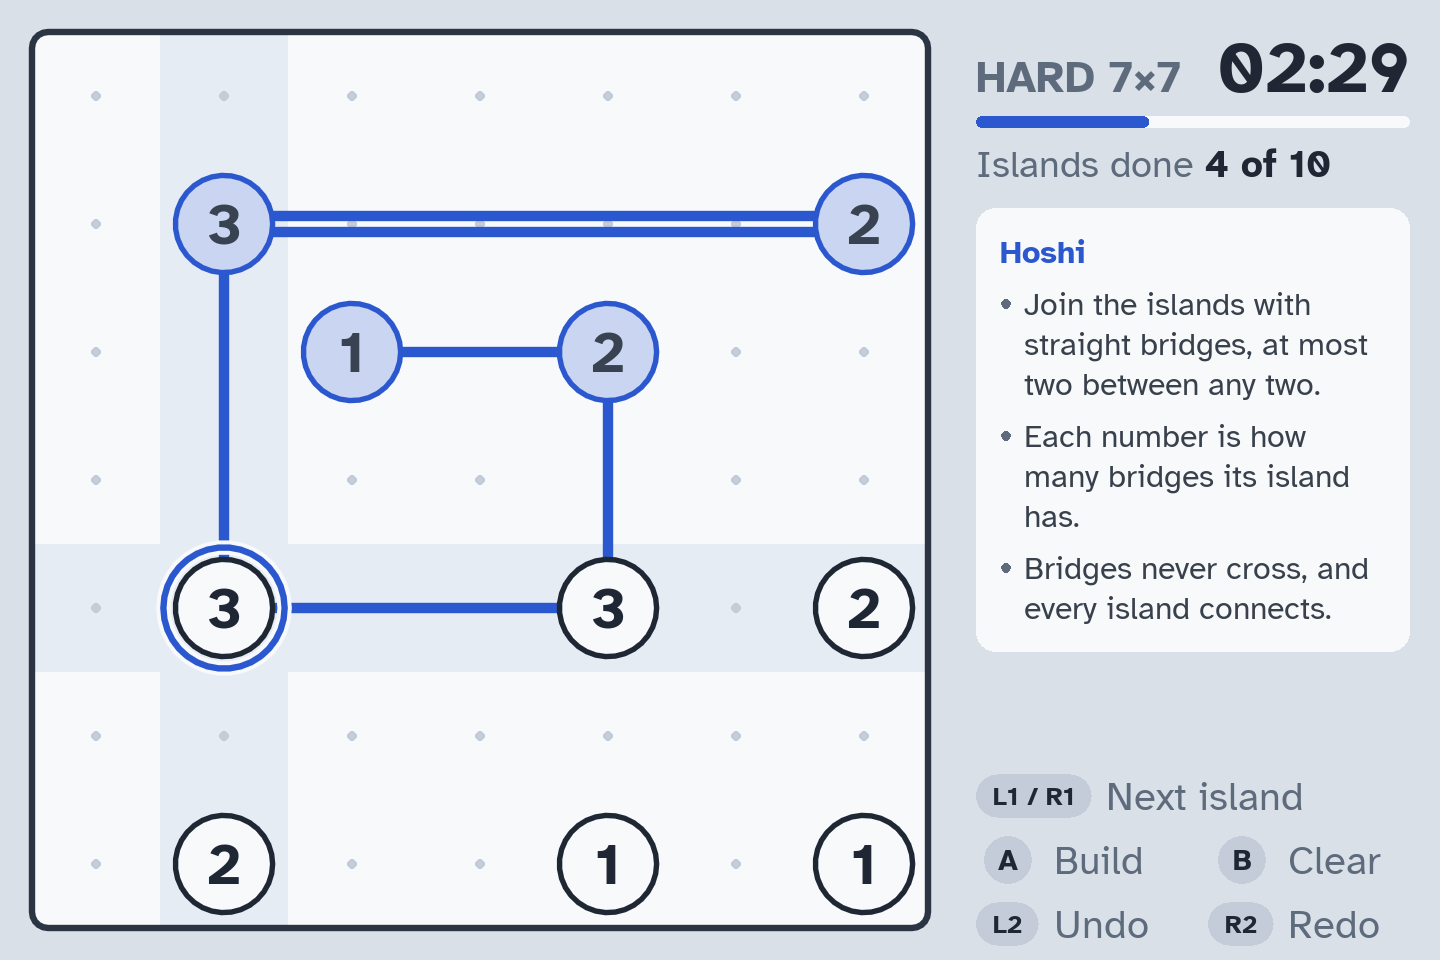
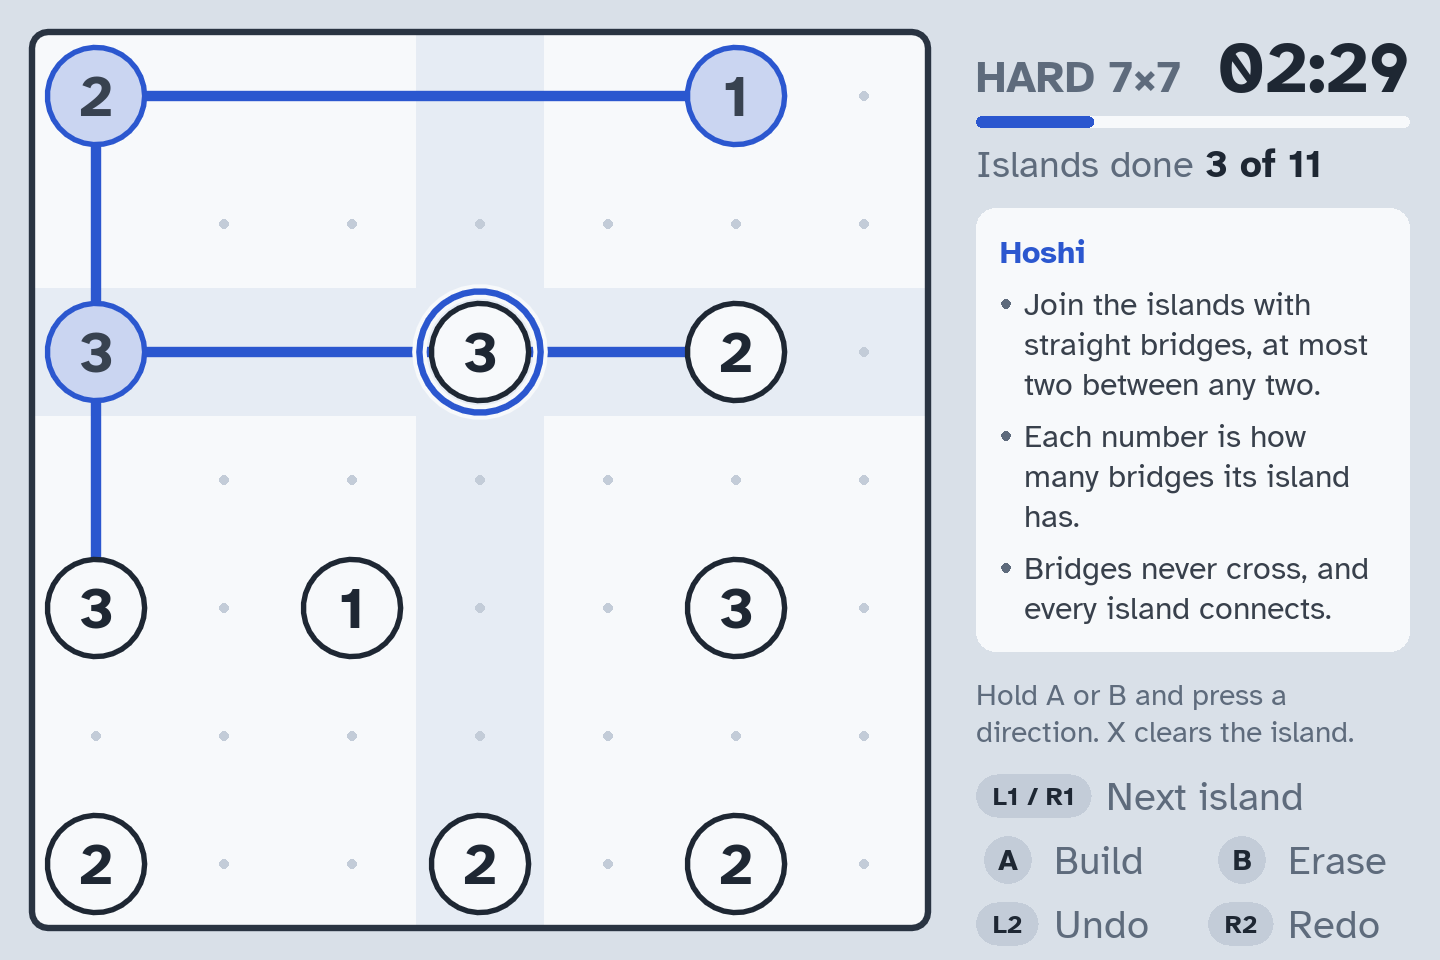
Build Hoshi bridges with A or B held and a direction
Drawing bridges like Pairlink's lines felt unnatural: A switched the
D-pad into drawing, the cursor jumped to the far island after each
bridge, a second bridge meant going back over the first, taking one of
two away meant drawing over them twice more, and B wiped the island.

- The D-pad moves between islands. With A held, a direction builds a
  bridge that way (again for a second one) and the cursor stays; with B
  held, it erases one. A or B pressed on its own works for the next
  direction only, like a phone keyboard's shift key, and pressing it
  again cancels. X clears the island. A direction held down builds one
  bridge, not one per repeat (input.lua now passes repeats on as such).
- Building, the cursor takes the accent colour and faint lines show
  where a bridge can go; erasing, the cursor and the island's bridges
  turn red. A link that can't take another glows red, like a bridge in
  the way.
- The side panel says what to press next, measured to fit the room left
  at any screen scale.
- HoshiGame:cycle is replaced by add and remove; taking away a bridge
  too many can solve the puzzle. The tests, the scene test (with real
  key presses and releases), the screenshot harness, both READMEs and
  the two Hoshi pictures follow.

diff --git a/README.md b/README.md
@@ -8,7 +8,7 @@ RG34XXSP's 720×480 screen and scaled to fit other resolutions.
 
 <img src="screenshots/title.png" alt="Title screen: a Sudoku box on the left, with the menu beside it" width="49%"> <img src="screenshots/play.png" alt="Sudoku: a Hard puzzle with pencil notes" width="49%">
 <img src="screenshots/hint.png" alt="Sudoku: an explained hint, a naked pair, with the notes it rules out crossed off" width="49%"> <img src="screenshots/solo.png" alt="Solo: a 7×7 Medium puzzle part way through, black shaded cells with rings on the cells kept beside them, and the numbers that still repeat tinted" width="49%">
-<img src="screenshots/pairlink.png" alt="Pairlink: an 8×8 Medium puzzle with six of nine pairs linked and a line being drawn" width="49%"> <img src="screenshots/hoshi.png" alt="Hoshi: a 9×9 Medium puzzle part way through, with a bridge being drawn from an island" width="49%">
+<img src="screenshots/pairlink.png" alt="Pairlink: an 8×8 Medium puzzle with six of nine pairs linked and a line being drawn" width="49%"> <img src="screenshots/hoshi.png" alt="Hoshi: a 9×9 Medium puzzle part way through, with an island ready to build a bridge from" width="49%">
 
 | Game | The goal | Boards | Levels |
 |---|---|---|---|
@@ -345,21 +345,27 @@ the islands with bridges:
 
 | Button | Hoshi |
 |---|---|
-| D-pad | Move to the next island that way (the next one in line, or else the nearest one that way); while drawing, draw a bridge that way |
-| A | Start drawing from the island; A again stops |
-| B | Take away the island's bridges (or stop drawing) |
+| D-pad | Move to the next island that way (the next one in line, or else the nearest one that way) |
+| A + D-pad | Build a bridge that way; the same way again builds a second one |
+| B + D-pad | Erase a bridge that way |
+| X | Erase all the island's bridges |
 | L1 / R1 | Jump to the previous / next island that doesn't have its number of bridges |
 | L2 / R2 | Undo / redo |
 | Start / Menu | Pause menu |
 
-Bridges are drawn like Pairlink's lines. While drawing, each direction draws a bridge to
-the island that way, and the cursor goes on to that island, so one bridge can follow
-another. Drawing over a bridge makes it two, so for two bridges go across and back again;
-drawing over two takes them away (next to a 1, drawing over one does). Faint lines show
-where a bridge can still go. A bridge that would cross another isn't built, and the one in its way
-glows red. An island with its number of bridges is tinted in the bridges' colour, and
-one with too many turns red. The cursor's row and column are lit, so islands in line
-with it stand out, and the side panel counts the islands done.
+The cursor stays on its island while you build, so all of an island's bridges are built
+from it: on a 3, hold A and press right, right, down for two bridges to the right and
+one down. Let go of A and the D-pad moves again. A or B pressed and let go on its own
+works for the next direction only, like a phone keyboard's shift key; pressing it again
+cancels. Holding a direction down builds or erases one bridge, not one per repeat.
+
+While building, the cursor turns the accent colour and faint lines show where a bridge
+can still go; while erasing, it turns red, and so do the island's bridges. Two islands
+take at most two bridges, or one next to a 1. A bridge that would cross another isn't
+built, and the one in its way glows red. Bridges look like Pairlink's lines. An island
+with its number of bridges is tinted in the bridges' colour, and one with too many
+turns red. The cursor's row and column are lit, so islands in line with it stand out,
+and the side panel counts the islands done.
 
 **Sizes and levels.** 7×7 and 9×9 (about 12 and 20 islands), each in three levels:
 
@@ -486,9 +492,10 @@ Linux). Use it to check layout changes. With no display, prefix it with
 `./build.sh scenetest` (or `MUSUDOKU_SCENETEST=1 love game`) plays through the
 screens' behaviour that the luajit tests can't reach, and prints PASS or FAIL for
 each check: undo and redo at the ends of their history, what the pause menu and
-Settings offer for each game, that dialogs ask before a puzzle is replaced, that an
-animation's last frame is drawn, how many frames an idle screen draws, and the
-audio device's pause, resume and recovery. It exits with 1 if a check fails. It uses
+Settings offer for each game, that dialogs ask before a puzzle is replaced, Hoshi's
+building and erasing with A and B held or tapped, that an animation's last frame is
+drawn, how many frames an idle screen draws, and the audio device's pause, resume and
+recovery. It exits with 1 if a check fails. It uses
 a save folder of its own (`musudoku-scenetest`), so your saves and settings are left
 alone. With no display, prefix it with `xvfb-run -a`.
 
@@ -544,7 +551,7 @@ audio's wake-ups, not all of them; only Sound effects off does that.
 `MUSUDOKU_FXSHOTS=1 love game` captures the completion effects mid-animation.
 
 `MUSUDOKU_GAMESHOTS=1 love game` plays through the Solo, Pairlink and Hoshi screens
-(the title with each game, new puzzle, play, a link effect, drawing bridges, pause, wins
+(the title with each game, new puzzle, play, a link effect, building and erasing bridges, pause, wins
 and statistics, in several themes) and saves screenshots named `g*.png`.
 `MUSUDOKU_GAMESHOTS=hoshi` takes only Hoshi's.
 

diff --git a/portmaster/README.md b/portmaster/README.md
@@ -26,4 +26,4 @@ Solo: A shades a cell (it turns black), X marks it to keep, B clears it, holding
 
 Pairlink: A on a number (or a line) starts drawing, the D-pad draws, stepping back along the line takes steps back, and reaching the other number links the pair. A stops drawing, B erases the line under the cursor, L1 / R1 jump to the next unlinked pair, L2 / R2 undo and redo.
 
-Hoshi: the D-pad moves between islands. A starts drawing, as in Pairlink: each direction draws a bridge to the island that way and moves on to it, and drawing back over it makes two bridges (over two, none). A stops drawing, B takes away the island's bridges, L1 / R1 jump to the next unfinished island, L2 / R2 undo and redo.
+Hoshi: the D-pad moves between islands. Hold A and press a direction to build a bridge that way (press it again for a second one); hold B and press a direction to erase one. The cursor stays on its island. A or B pressed on its own works for the next direction only. X erases all the island's bridges, L1 / R1 jump to the next unfinished island, L2 / R2 undo and redo.
